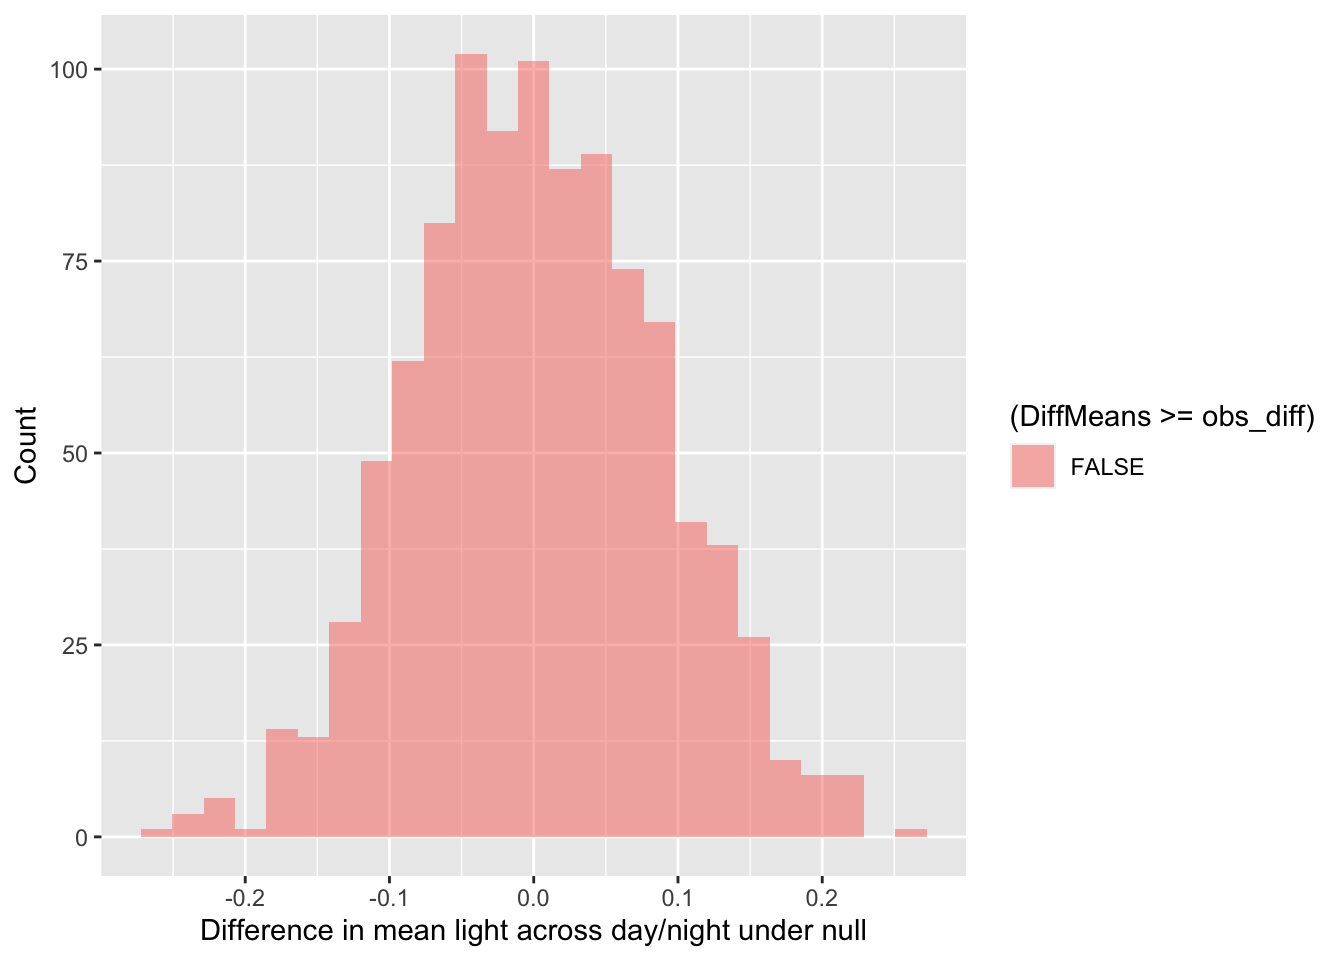
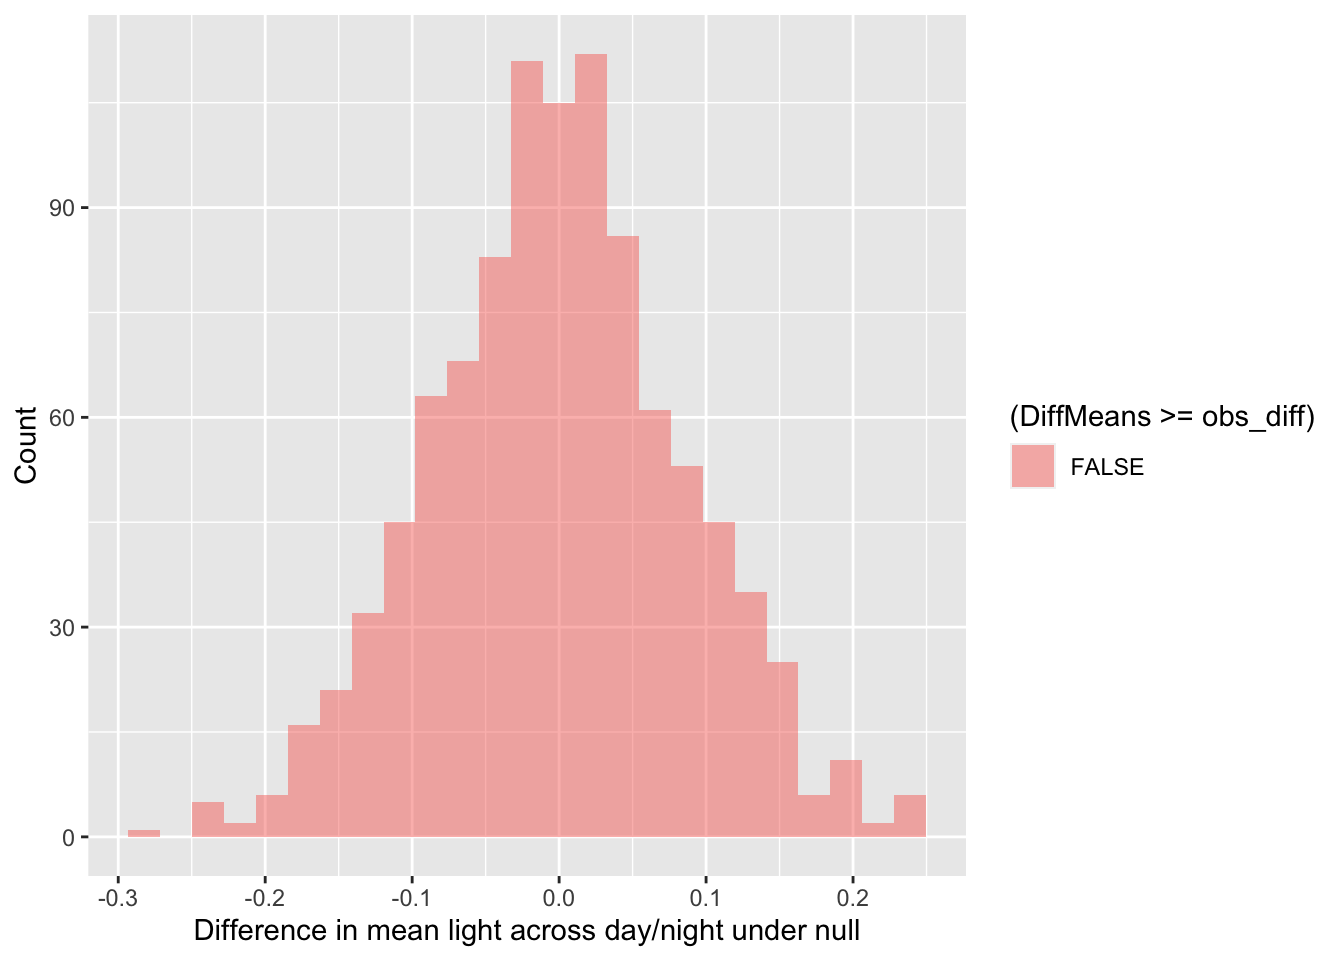
Updated class tutorial for air quality dataaset

diff --git a/docs/AQexp2.html b/docs/AQexp2.html
@@ -10,7 +10,7 @@
 
 
 
-<meta name="date" content="2022-09-12" />
+<meta name="date" content="2022-09-13" />
 
 <title>Week 3</title>
 
@@ -308,7 +308,7 @@ $(document).ready(function () {
 
 <h1 class="title toc-ignore">Week 3</h1>
 <h4 class="author"></h4>
-<h4 class="date">2022-09-12</h4>
+<h4 class="date">2022-09-13</h4>
 
 </div>
 
@@ -479,16 +479,16 @@ be a perfectly OK action by the chaos agent.)</p>
 <pre><code>## # A tibble: 19,010 x 5
 ##    Date       Time        DayNight   Lux orig.id    
 ##    &lt;date&gt;     &lt;Period&gt;    &lt;chr&gt;    &lt;dbl&gt; &lt;chr&gt;      
-##  1 2022-08-09 11H 59M 37S Day        1.8 18265.14228
-##  2 2022-09-09 12H 17M 24S Day        5.2 3673.15627 
-##  3 2022-08-09 12H 27M 38S Day        3.6 13915.9043 
-##  4 2022-09-09 12H 13M 12S Day       11.1 3421.3739  
-##  5 2022-08-09 1H 29M 3S   Day        3.1 17388.16123
-##  6 2022-08-09 1H 29M 9S   Day        1.8 17394.7329 
-##  7 2022-08-09 12H 25M 45S Day        1.8 13802.17942
-##  8 2022-07-09 12H 53M 20S Day        1.8 16279.13722
-##  9 2022-08-09 11H 23M 28S Day        3.1 5985.16086 
-## 10 2022-08-09 12H 8M 41S  Day        7.2 18809.505  
+##  1 2022-08-09 1H 35M 51S  Day        3.6 17796.8606 
+##  2 2022-08-09 12H 5M 2S   Day        5.5 8793.18225 
+##  3 2022-09-09 12H 16M 34S Day        7.2 3623.603   
+##  4 2022-09-09 12H 58M 11S Day       14.9 15754.6227 
+##  5 2022-07-09 12H 50M 5S  Day        3.6 7264.8563  
+##  6 2022-08-09 11H 28M 41S Day        7.2 6298.17    
+##  7 2022-08-09 12H 3M 50S  Day        1.8 8721.17432 
+##  8 2022-08-09 12H 33M 32S Day        1.8 14269.7141 
+##  9 2022-08-09 11H 57M 20S Day        1.8 18128.18002
+## 10 2022-12-09 13H 18M 31S Day        1.8 548.17461  
 ## # … with 19,000 more rows</code></pre>
 <p>We can repeat that procedure again and see how the data shifts if we
 do another shuffle.</p>
@@ -496,16 +496,16 @@ do another shuffle.</p>
 <pre><code>## # A tibble: 19,010 x 5
 ##    Date       Time        DayNight   Lux orig.id    
 ##    &lt;date&gt;     &lt;Period&gt;    &lt;chr&gt;    &lt;dbl&gt; &lt;chr&gt;      
-##  1 2022-08-09 1H 36M 44S  Day        1.8 17849.10694
-##  2 2022-09-09 13H 1M 38S  Day        5.5 10240.18896
-##  3 2022-08-09 11H 27M 14S Day        3.6 6211.10211 
-##  4 2022-08-09 1H 31M 0S   Day        1.8 17505.14240
-##  5 2022-07-09 12H 44M 50S Day        1.8 6949.17519 
-##  6 2022-08-09 12H 1M 10S  Day        1.8 8561.17882 
-##  7 2022-09-09 12H 6M 32S  Day       16.8 3021.6029  
-##  8 2022-09-09 13H 4M 13S  Day        3.6 10395.8407 
-##  9 2022-08-09 12H 8M 36S  Day        7.2 18804.407  
-## 10 2022-09-09 13H 7M 55S  Day        5.5 10617.18828
+##  1 2022-08-09 1H 30M 6S   Day        3.6 17451.11028
+##  2 2022-09-09 12H 20M 38S Day       22.1 3867.726   
+##  3 2022-08-09 12H 6M 42S  Day        1.8 18690.7052 
+##  4 2022-08-09 1H 29M 16S  Day        3.6 17401.8693 
+##  5 2022-08-09 12H 3M 42S  Day        1.8 8713.16724 
+##  6 2022-08-09 12H 19M 45S Day        1.8 13442.6795 
+##  7 2022-08-09 11H 32M 52S Day       16.3 6549.8824  
+##  8 2022-08-09 12H 6M 7S   Day       11.1 8858.6334  
+##  9 2022-08-09 12H 5M 10S  Day        1.8 8801.16407 
+## 10 2022-08-09 12H 33M 18S Day        3.6 14255.9202 
 ## # … with 19,000 more rows</code></pre>
 <p>Let’s shuffle the data and see what that means for the distribution
 of mean <code>Lux</code> differences between day and night.</p>
@@ -516,13 +516,13 @@ names(randomizing_diffs)[1] &lt;- &quot;DiffMeans&quot; # change the name of the
 
 # View first few rows of data
 head(randomizing_diffs)</code></pre>
-<pre><code>##     DiffMeans
-## 1 -0.04958674
-## 2 -0.11328378
-## 3 -0.07146207
-## 4  0.10688964
-## 5  0.08420883
-## 6  0.14977120</code></pre>
+<pre><code>##       DiffMeans
+## 1 -0.0364445938
+## 2 -0.0003672704
+## 3  0.1118709363
+## 4 -0.0492263953
+## 5  0.0300080554
+## 6  0.0069033066</code></pre>
 <p>Now we can visualize the distribution of simulated differences in
 mean light levels. Where would our observed difference in mean light
 levels fall?</p>
@@ -593,7 +593,7 @@ when we shuffle our data?</p>
 <pre class="r"><code>quantiles_cor &lt;- qdata( ~ cor, p = c(0.025, 0.975), data=randomizing_cor) # calculate the 2.5% and 97.5% quantiles in our simulated correlation coefficient data (note that 97.5-2.5 = 95!)
 quantiles_cor # display the quantiles</code></pre>
 <pre><code>##      2.5%     97.5% 
-## 0.1748184 0.2097526</code></pre>
+## 0.1734142 0.2098956</code></pre>
 <p>The values above give us a 95% confidence interval estimate for our
 correlation coefficient!</p>
 <p>Do we clearly see that our correlation coefficient distribution does
